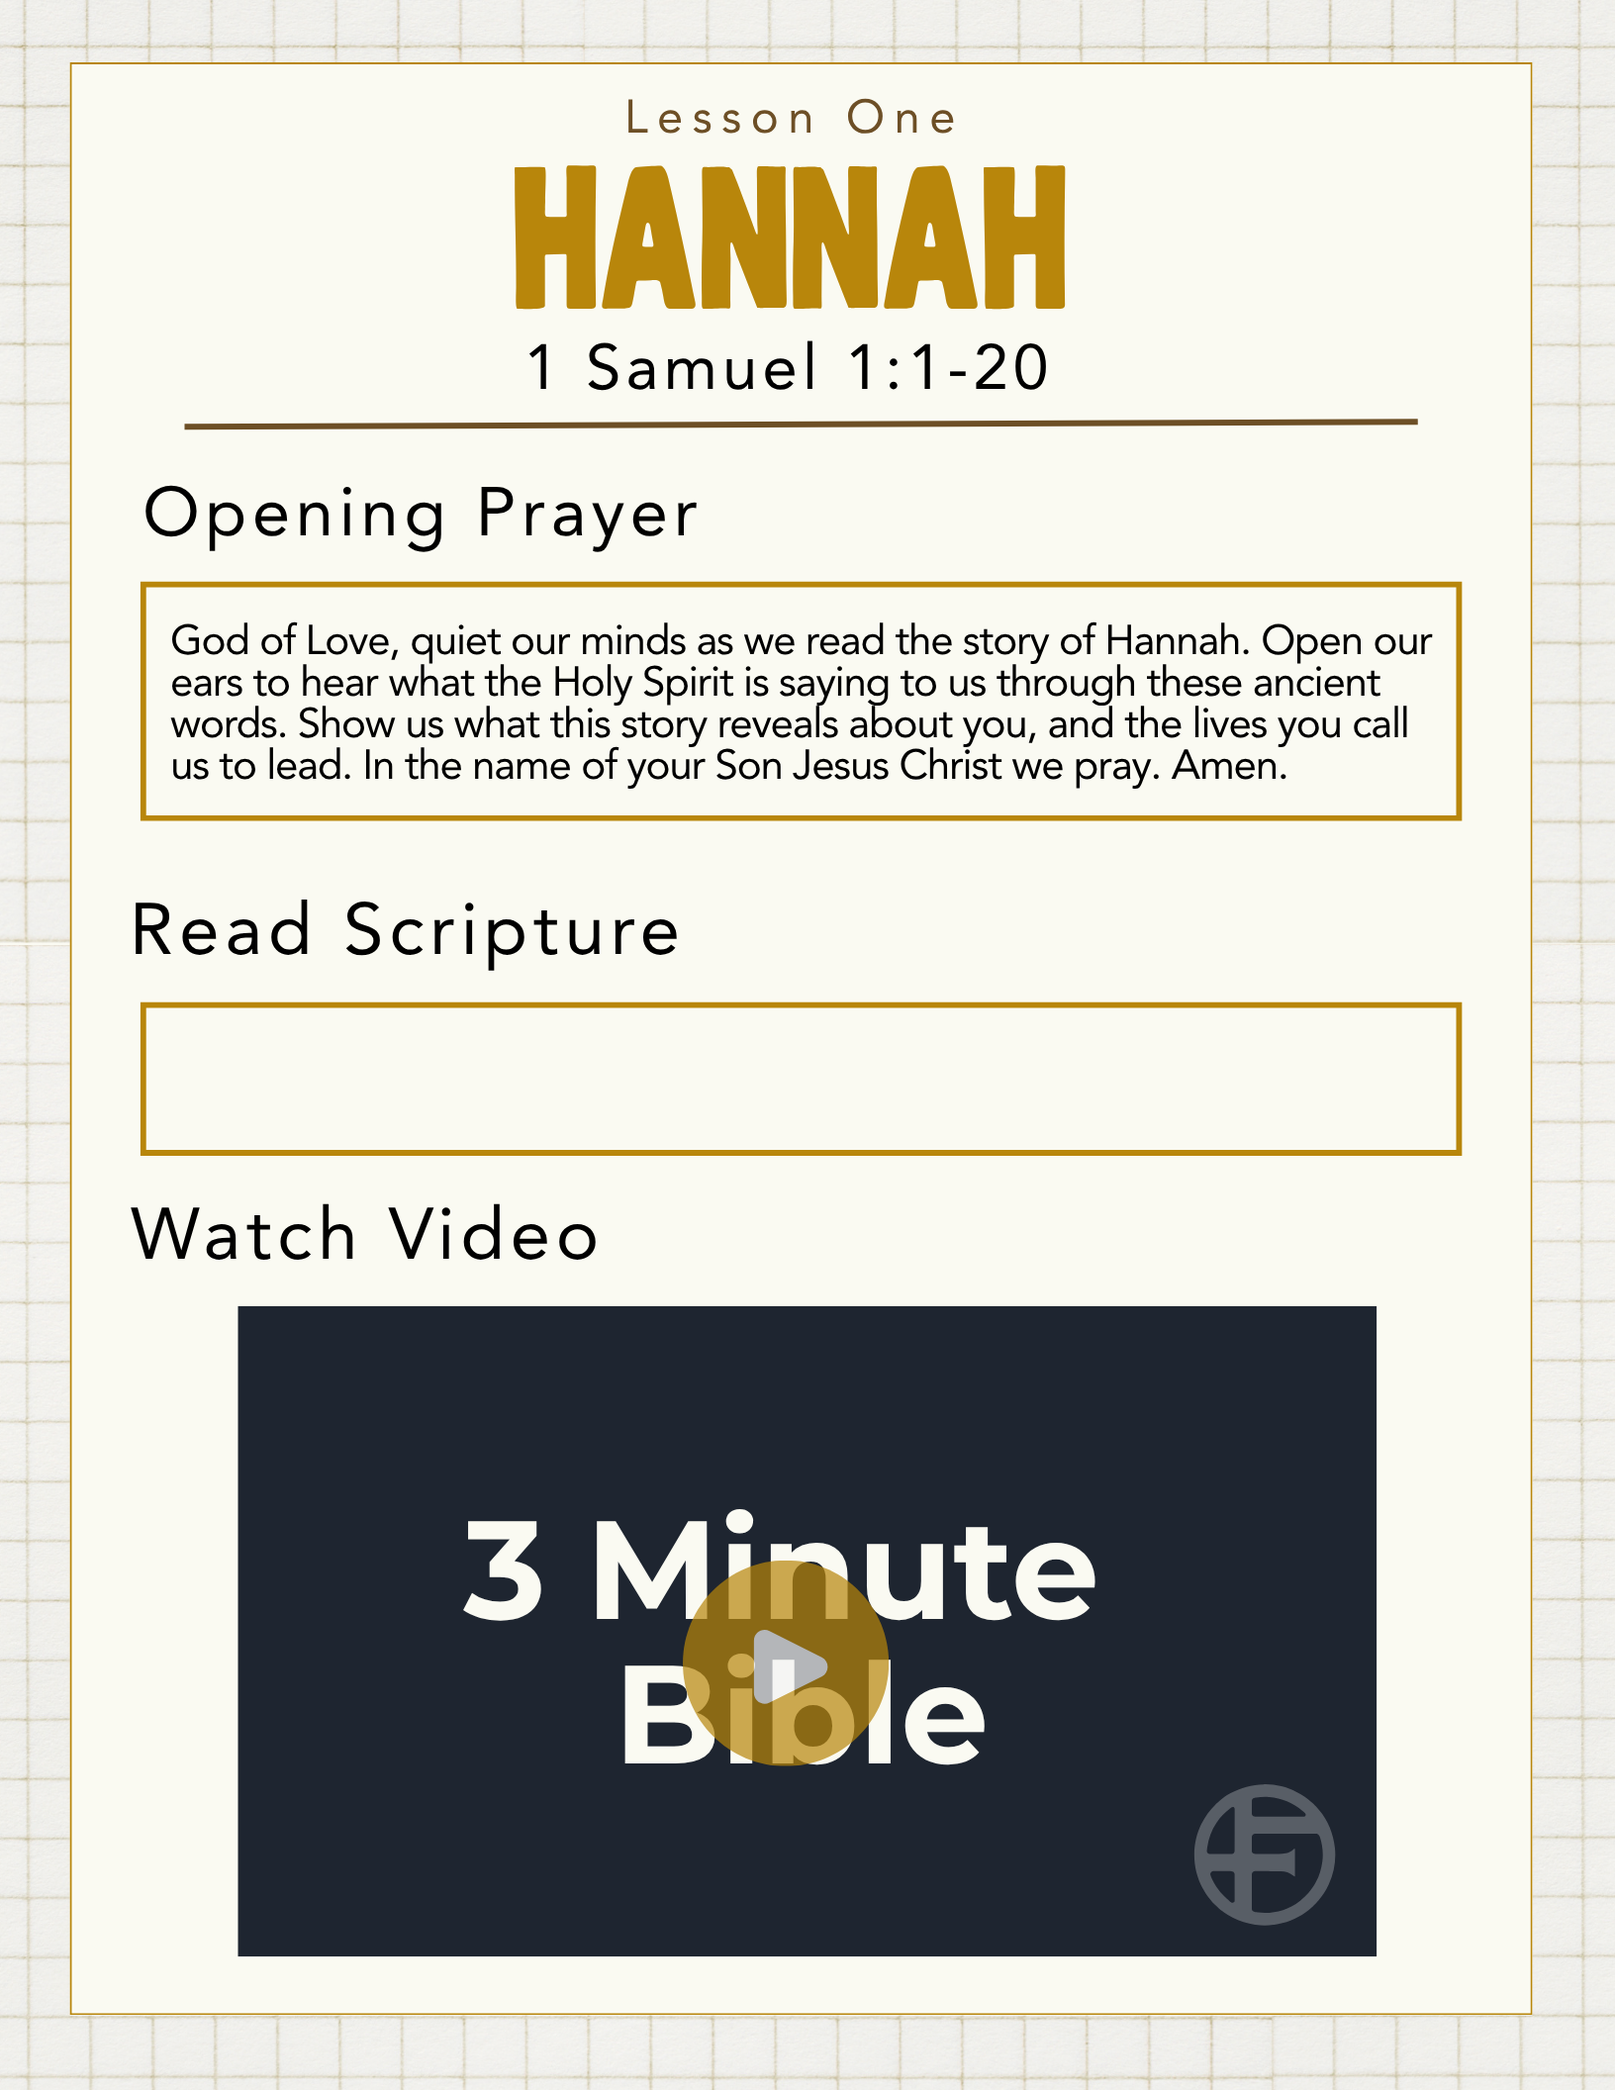
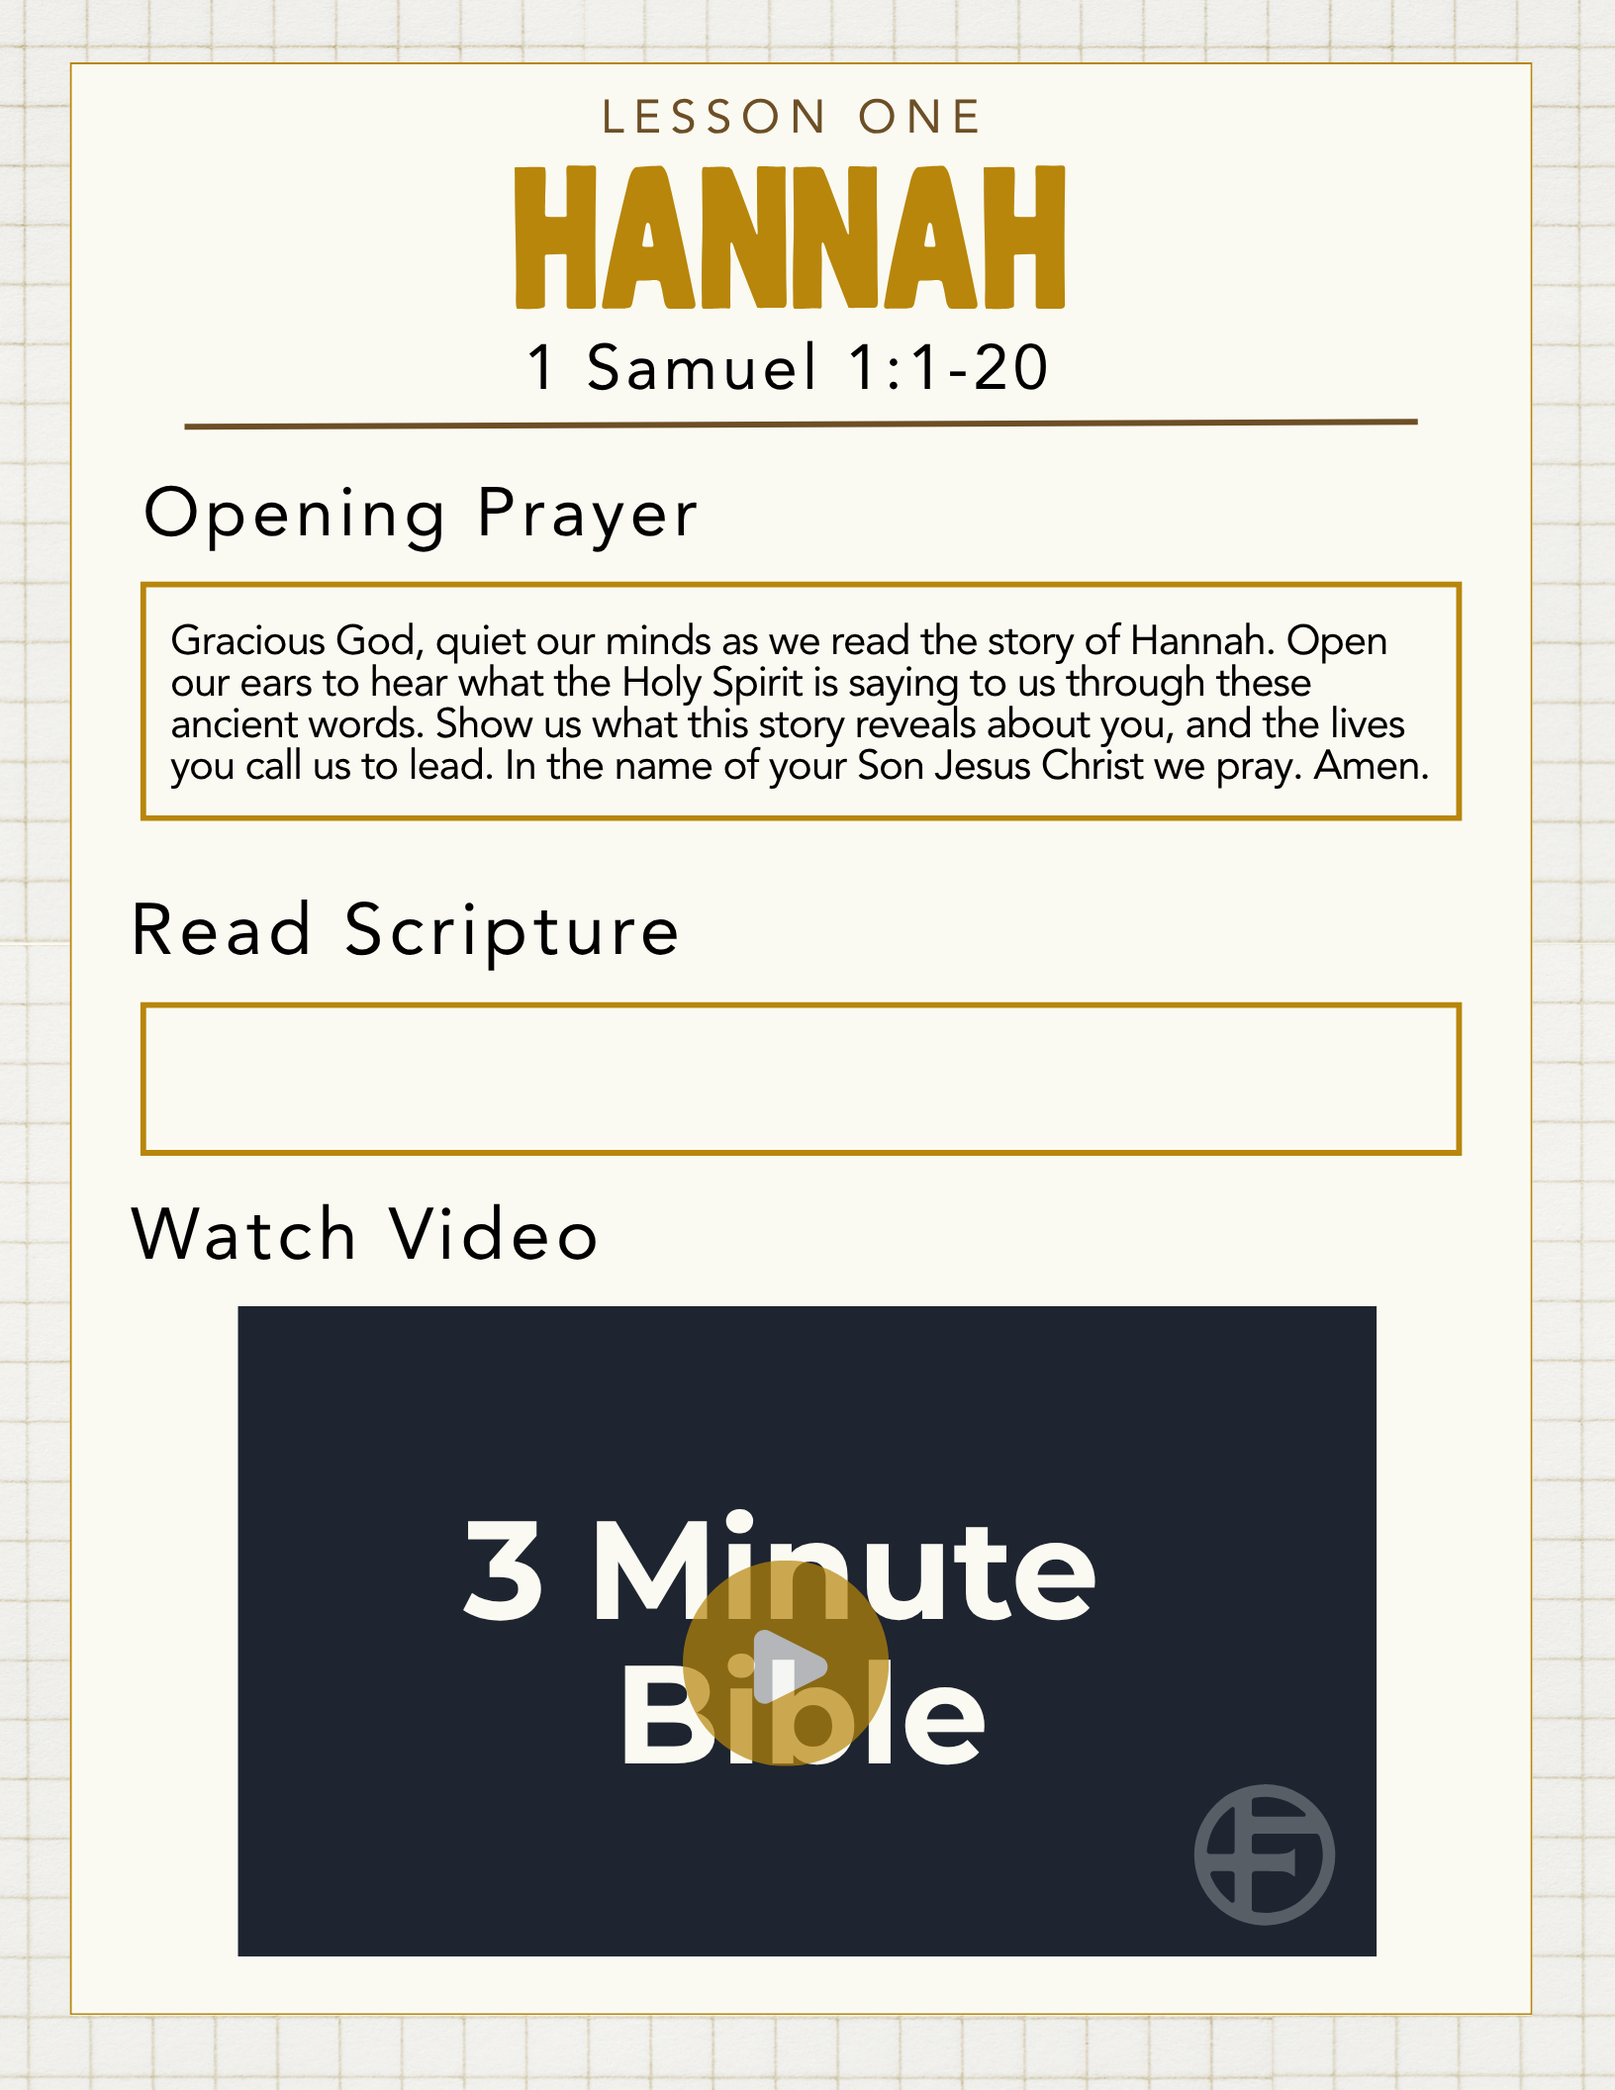
Packet #2: load all six lessons as Canva art (image-based) + nudge tab numbers
- Lessons 2-6 (Two Daughters, Shiphrah & Puah, Zelophehad, Tamar, Widow) now render
  from Emily's Canva art via pageImages+hotspots; Hannah re-exported (Nazirite /
  'Gracious God' opening prayer + the four typo fixes baked into the art).
- All six share verified hotspots: scripture 8.7/48.06/81.74/7.05,
  video 14.77/62.5/70.4/31.06 (1149x656, 16:9). Only lesson 2 has a live videoUrl.
- Typos fixed in Canva: SHIPHRAH headline, 'Jairus', 'how they deliberated', 'jars are empty'.
- engine/styles.css: tab numeral padding-left 16->23px so numbers clear the left edge.
- README updated (Packet #2 status + tab note).

Changed region(s): [[0.0938, 0.2812, 0.875, 0.375], [0.375, 0.0312, 0.5938, 0.0625]]

diff --git a/packets/gospel-according-to-the-women/content.js b/packets/gospel-according-to-the-women/content.js
@@ -64,8 +64,8 @@ window.BBS_CONTENT = {
       "videoSubtitle": "Grace: The Story of Hannah",
       "pageImages": ["assets/pages/hannah-a.png", "assets/pages/hannah-b.png"],
       "hotspots": {
-        "scripture": { "x": 8.7, "y": 48.06, "w": 81.8, "h": 7.1 },
-        "video": { "x": 14.83, "y": 62.5, "w": 70.34, "h": 31.06 }
+        "scripture": { "x": 8.7, "y": 48.06, "w": 81.74, "h": 7.05 },
+        "video": { "x": 14.77, "y": 62.5, "w": 70.4, "h": 31.06 }
       },
       "questions": [
         "How does the narrator describe Hannah's relationship with her family, including her husband Elkanah and his other wife Peninnah? To what extent does Hannah's childless state inform those relationships?",
@@ -97,6 +97,11 @@ window.BBS_CONTENT = {
       "scriptureRef": "Mark 5:21–43",
       "videoTitle": "3-Minute Bible",
       "videoSubtitle": "What is a Markan sandwich?",
+      "pageImages": ["assets/pages/two-daughters-a.png", "assets/pages/two-daughters-b.png"],
+      "hotspots": {
+        "scripture": { "x": 8.7, "y": 48.06, "w": 81.74, "h": 7.05 },
+        "video": { "x": 14.77, "y": 62.5, "w": 70.4, "h": 31.06 }
+      },
       "questions": [
         "Mark is famously sparse with words, telling the reader only the necessary information without much descriptive detail. Take a few minutes and imagine the details that Mark omitted. What sights, smells, and sounds do you imagine as you read? What tones of voice were used by each person as they spoke?",
         "What context does Mark give us about the bleeding woman? Aside from her physical condition, how does Mark indicate the other ways she suffers?",
@@ -136,6 +141,11 @@ window.BBS_CONTENT = {
       "scriptureRef": "Exodus 1:8–22",
       "videoTitle": "3-Minute Bible",
       "videoSubtitle": "Background to the Exodus",
+      "pageImages": ["assets/pages/shiphrah-puah-a.png", "assets/pages/shiphrah-puah-b.png"],
+      "hotspots": {
+        "scripture": { "x": 8.7, "y": 48.06, "w": 81.74, "h": 7.05 },
+        "video": { "x": 14.77, "y": 62.5, "w": 70.4, "h": 31.06 }
+      },
       "questions": [
         "The story never tells us how Shiphrah and Puah responded when Pharaoh gave them his command. He apparently expected them to obey, and the narrative doesn't tell us much about how the women responded, deliberated between themselves, or formed a plan. Using your imagination, help fill in these narrative gaps. What might the women have said to Pharaoh? To each other? To the other midwives in their community, and to expectant Hebrew mothers?",
         "Scholars debate whether Shiphrah and Puah were Hebrew midwives or non-Hebrew midwives who served Hebrew women. How does the story change if they were protecting people outside their own community? What risks did they face for their defiance of Pharaoh? What might have led them to take that risk?",
@@ -163,6 +173,11 @@ window.BBS_CONTENT = {
       "scriptureRef": "Numbers 26:52–56; 27:1–11",
       "videoTitle": "3-Minute Bible",
       "videoSubtitle": "The Daughters of Zelophehad",
+      "pageImages": ["assets/pages/zelophehad-a.png", "assets/pages/zelophehad-b.png"],
+      "hotspots": {
+        "scripture": { "x": 8.7, "y": 48.06, "w": 81.74, "h": 7.05 },
+        "video": { "x": 14.77, "y": 62.5, "w": 70.4, "h": 31.06 }
+      },
       "questions": [
         "This lesson's passages reflect the Israelites' plans to allocate the promised land among the various families. Distributing the land fairly was essential, because the Israelites survived primarily on food grown on their respective families' land. Land was passed patrilineally, meaning through male heirs. Keeping this in mind, what are the daughters' circumstances in the wake of their father's death, and how are they now uniquely vulnerable?",
         "How does the narrator build dramatic tension as the daughters approach Moses? What makes their legal claim, and the manner in which they present it, particularly bold?",
@@ -193,6 +208,11 @@ window.BBS_CONTENT = {
       "scriptureRef": "Genesis 38:6–26",
       "videoTitle": "3-Minute Bible",
       "videoSubtitle": "Tamar: Righteousness When the System Fails",
+      "pageImages": ["assets/pages/tamar-a.png", "assets/pages/tamar-b.png"],
+      "hotspots": {
+        "scripture": { "x": 8.7, "y": 48.06, "w": 81.74, "h": 7.05 },
+        "video": { "x": 14.77, "y": 62.5, "w": 70.4, "h": 31.06 }
+      },
       "questions": [
         "In previous lessons, we learned that ancient Israel was an agrarian society in which land, and conceiving male offspring to farm and inherit land, was a key to survival. Recall that childless widows were among the most vulnerable members of society. Now, let's revisit the many aspects of this story that, as modern readers, strike us as odd and disturbing but make sense within this context. What are Judah's instructions to Onan, and what motivates that instruction? What motivates Tamar, and what is she fighting for?",
         "Who are the villains and protagonists in this story? How does the narrator invite the reader to see Tamar's behavior and her trickery? What aspects of the narrative prompt your responses?",
@@ -231,6 +251,11 @@ window.BBS_CONTENT = {
       "scriptureRef": "1 Kings 17:1–16",
       "videoTitle": "3-Minute Bible",
       "videoSubtitle": "The Widow of Zarephath",
+      "pageImages": ["assets/pages/widow-a.png", "assets/pages/widow-b.png"],
+      "hotspots": {
+        "scripture": { "x": 8.7, "y": 48.06, "w": 81.74, "h": 7.05 },
+        "video": { "x": 14.77, "y": 62.5, "w": 70.4, "h": 31.06 }
+      },
       "questions": [
         "The widow doesn't seem to have received any message from God, and yet in verse 9 we are told that God has said, \"I have commanded a widow there to feed you.\" Look back at the similar statement about the ravens in verse 4. What do these two passages suggest about what \"command\" can mean? How might God be at work through us even when we have not heard God's voice directly?",
         "Elijah, one of the most prominent figures in the Old Testament, is called to speak God's word to kings. Yet God chooses a widow, someone with little social power and almost no food, to sustain him. What do you make of God placing Elijah's survival in her hands?",

diff --git a/engine/styles.css b/engine/styles.css
@@ -25,7 +25,7 @@ body{background:var(--stage);font-family:'Mulish',sans-serif;color:var(--navy);-
 .bookdeco .stack{z-index:5;}
 /* tab rail */
 #tabs{flex:0 0 var(--tab-w);display:flex;flex-direction:column;gap:8px;padding:26px 0;z-index:1;}
-.tab{display:flex;align-items:center;gap:9px;height:78px;padding:0 12px 0 16px;margin-left:-6px;border-radius:0 15px 15px 0;
+.tab{display:flex;align-items:center;gap:9px;height:78px;padding:0 12px 0 23px;margin-left:-6px;border-radius:0 15px 15px 0;
   background:#EAF3FC;border:1px solid var(--cardbd);border-left:none;cursor:pointer;box-shadow:2px 3px 8px rgba(10,39,76,.10);}
 .tab .tn{font-family:'Hello Handmade',sans-serif;font-size:27px;line-height:1;color:var(--navy);}
 .tab .tl{font-weight:800;font-size:11px;letter-spacing:.05em;text-transform:uppercase;color:var(--smoky);line-height:1.25;}

diff --git a/README.md b/README.md
@@ -127,7 +127,7 @@ layout — no top bar, no page indicator).
   **index tabs** on the right. Tabs = one small "Contents" tab, one numbered tab per
   lesson labeled with its abbreviated reference (`tabRef`, e.g. "Jer. 29"), and a small
   "Additional Resources" tab. Active tab is navy. Tabs are the primary navigation
-  (plus arrow keys / edge arrows). No "page N of M" pill. Tab rail is 132px wide;
+  (plus arrow keys / edge arrows). No "page N of M" pill. Tab rail is 132px wide (the tab numeral `.tn` uses `padding-left:23px` so the numbers clear the rounded left edge — nudged out July 2026 at Emily’s request);
   `tabRef` holds the FULL reference ("Jeremiah 29", "1 Corinthians 13" — Emily wants
   them spelled out, wrapping to two/three lines), and `shortRef` (used on the Contents
   rows) is also spelled out for 1 Corinthians.
@@ -352,22 +352,7 @@ transcripts + a theme/scripture chart (Dropbox).
   live-video lesson, contents/letter, modal, resources) with no overflow; Beyond Bumper
   Stickers confirmed pixel-unchanged. Cover is Emily's Canva cover (`assets/cover.png`,
   1632×2112, gold-on-yellow, integrity-verified).
-- **Lesson 1 (Hannah) now renders from Emily's own Canva art (July 2026).** Emily was not
-  happy with the engine-drawn layouts (including the variant-B facelift) and is designing
-  the lesson pages herself in Canva. Hannah is the first one in, via the image-based
-  mechanism above: `assets/pages/hannah-a.png` + `hannah-b.png` (1632×2112, exported through
-  the Canva connector from design `DAHOtl4BNMk` pages 8–9). Measured hotspots (percent of
-  page): scripture `x 8.7 / y 48.06 / w 81.8 / h 7.1`, video `x 14.83 / y 62.5 / w 70.34
-  / h 31.06` (her video box is 1148×656 ≈ 16:9). **Re-measure the hotspots every time the
-  art is re-exported** — Emily's second revision moved the scripture box (the video box
-  happened to stay put), and stale coordinates silently misalign the overlay. Measure by
-  finding the longest horizontal run of gold per row (the page has a gold outer frame whose
-  vertical edges otherwise contaminate a naive bounding box). Her art also carries **new prayers** that
-  supersede the `openingPrayer`/`closingPrayer` strings visually. **Video is still dark:**
-  Hannah's `videoUrl` is empty, so her own "3 Minute Bible" graphic shows — drop in the
-  Vimeo URL and the in-frame player + pop-out light up automatically. **Lessons 2–6 still
-  render engine-drawn (variant B)** until Emily designs their Canva pages, so the packet is
-  intentionally mixed for now.
+- **All six lessons now render from Emily's own Canva art (July 2026).** Emily reworked every lesson's two pages herself in Canva (she was unhappy with the engine-drawn variant-B layouts), and all six are now in via the image-based mechanism above: `assets/pages/<slug>-a.png` + `-b.png` (1632×2112, exported through the Canva connector from design `DAHOtl4BNMk` pages 8–19 — hannah 8–9, two-daughters 10–11, shiphrah-puah 12–13, zelophehad 14–15, tamar 16–17, widow 18–19). The layout is a shared template, so the **hotspots are identical across all six** (measured + overlay-verified July 2026): scripture `x 8.7 / y 48.06 / w 81.74 / h 7.05`, video `x 14.77 / y 62.5 / w 70.4 / h 31.06` (video box 1149×656 ≈ 16:9). **Re-measure the hotspots every time the art is re-exported** — detect the empty gold scripture box + the dark video rectangle (dark-pixel density projection, robust to the white “3 Minute Bible” text inside the box) and confirm with a drawn overlay before trusting the numbers. The art is authoritative **visually**; the `content.js` prayer/question fields remain the written record + PDF source and may differ from the art. **Only Lesson 2 (Two Daughters) has a live `videoUrl`** (`player.vimeo.com/video/1210281687`) — it plays in-frame with a ⭢ pop-out; the other five show their own “3 Minute Bible” placeholder until Vimeo links land, at which point the in-frame player + pop-out light up automatically. Four art typos were fixed in Canva before export (SHIPHRAH headline, “Jairus”, “how they deliberated”, “jars are empty”) plus Hannah’s “Nazirite” spelling; Hannah’s visible opening prayer now reads “Gracious God…”.
 - **Lesson 1 (Hannah) questions are FINAL** — exactly Emily's five, with one edit she
   approved (Samuel "raised at the sanctuary, not at home with Hannah" — the earlier draft
   said "the temple," anachronistic here). All six lessons' questions have now been
@@ -449,7 +434,7 @@ transcripts + a theme/scripture chart (Dropbox).
   and links out to Bible Gateway via `scriptureUrl`. Lesson 4 combines two ranges under two
   `<h4>`s (Numbers 26:52–56 and 27:1–11). Verified July 2026 by opening each modal in the
   engine.
-- **Headers are engine-drawn** (`headerImage: null`) — no per-lesson art yet.
+- **Headers: N/A** — every lesson is now full-page Canva art (`pageImages`), so the engine renders the art and draws no header slot; `headerImage` stays `null`.
 - **Page-fit (tightened July 2026 after a real overflow shipped):** the packet
   overrides `.qs .q` (8px pad, 16.5px/1.4 text) and `.card p` (17px prayers) in its
   inline `<style>`. At the old sizes Hannah's five questions overflowed `.qs` by 45px —
@@ -469,8 +454,7 @@ Pending: all six lessons' questions are now Emily-reviewed — remaining draft i
 the **letter** and a **packet-wide final prayer pass** (do not distribute links until
 Emily signs off on the full content) · remaining Vimeo
 `videoUrl`s (lesson 2 has its video; the rest, incl. "Background to the Exodus" and
-the "Orphan, Widow, and Stranger" optional, still pending) · optional per-lesson
-header art · the PDF (secondary; note `tools/make_pdf.py` predates
+the "Orphan, Widow, and Stranger" optional, still pending) · the PDF (secondary; note `tools/make_pdf.py` predates
 `optionalReadings`/`funFact` and will need those added at re-cut time) · wire the
 Foxy/portal access (below).
 
